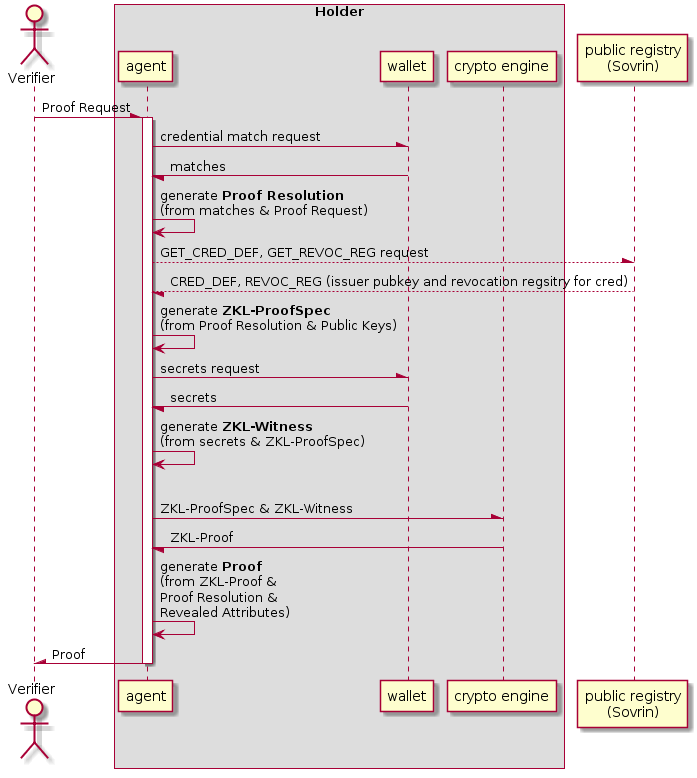
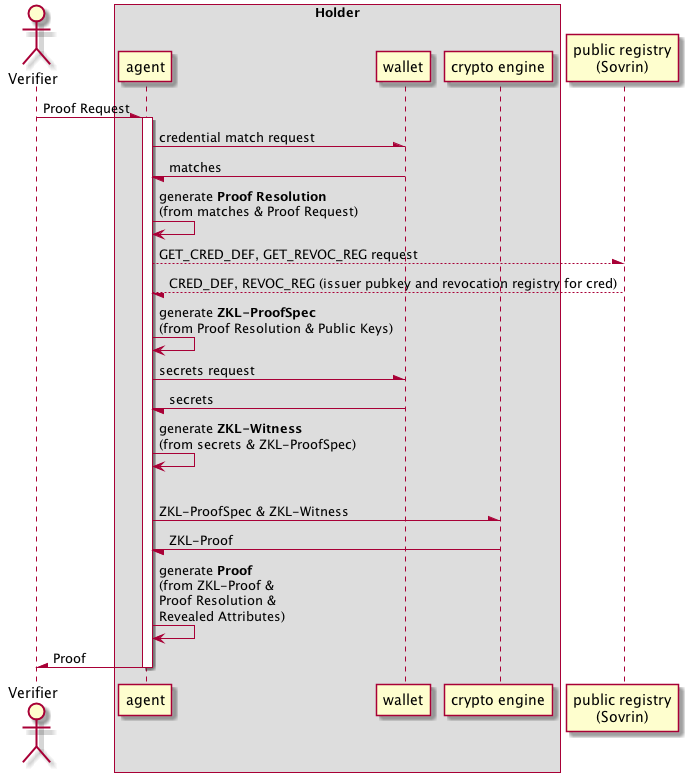
Updated image and added test

diff --git a/src/commitments/pedersen.rs b/src/commitments/pedersen.rs
@@ -15,3 +15,14 @@ impl CommitmentScheme for PedersenCommitment {
         unimplemented!();
     }
 }
+
+#[cfg(test)]
+mod tests {
+    use super::*;
+
+    #[test]
+    fn setup_one_element() {
+        let result = PedersenCommitment::setup(1);
+        assert_eq!(result.len(), 1);
+    }
+}

diff --git a/README.md b/README.md
@@ -47,4 +47,8 @@ Data that satisfies the non-cryptographic part of the Request.
 
 ### ZKL Flow
 
+Holders don't handle cryptographic material or messaging with Verifiers directly, but instead use software and hardware components to do this called agents.
+Cryptographic secrets are stored in wallets. Crypto engine is the software/hardware library that performs the ZK computations. Public registry
+is any reliable source that stores the public material that both Holder and Verifier. Sovrin is a public permissioned ledger designed for this purpose.
+
 ![flow](docs/flow-diagram.png)
